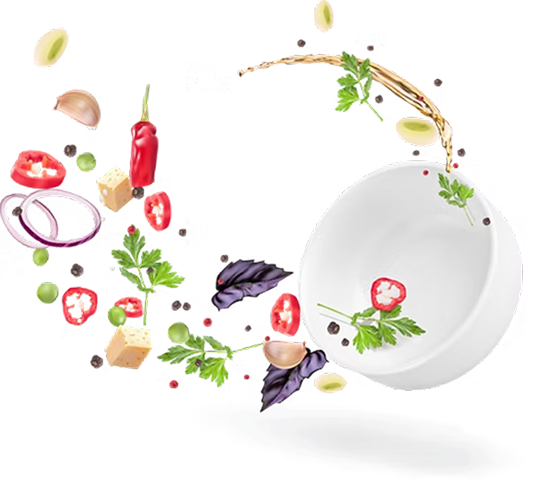
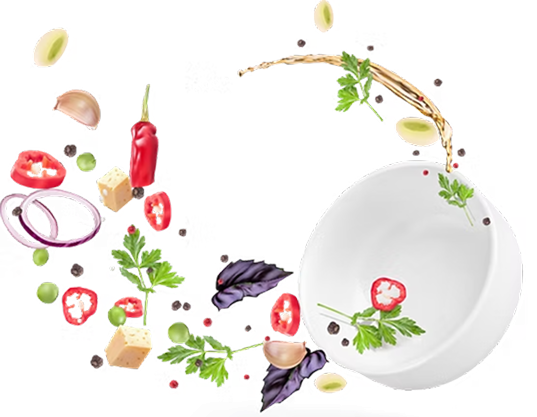
Add new components for footer, about us, FAQ section, and testimonials
- Created Footer component for site footer with company information and links.
- Added AboutUs section to describe the company's mission and offerings.
- Implemented FAQSection with collapsible questions and answers for user inquiries.
- Developed Testimonials section to showcase customer feedback and experiences.

diff --git a/src/pages/Home/Sections/FAQSection.jsx b/src/pages/Home/Sections/FAQSection.jsx
@@ -1,0 +1,141 @@
+// src/pages/Home/Sections/FAQSection.jsx
+import { useState } from "react";
+
+const faqItems = [
+  {
+    question: "Are these Meals Suitable for dieting or bodybuilding?",
+    answer: "",
+    isOpen: false,
+  },
+  {
+    question: "Are there any additives or preservatives?",
+    answer: "",
+    isOpen: false,
+  },
+  {
+    question: "Are the meals fresh or frozen?",
+    answer:
+      "The meals are prepared daily with fresh, high-quality products, packed in airtight containers to preserve the taste and nutritional value.",
+    isOpen: true,
+  },
+  {
+    question: "Are there any additives or preservatives?",
+    answer: "",
+    isOpen: false,
+  },
+];
+
+const FAQSection = () => {
+  const [activeIndex, setActiveIndex] = useState(2);
+
+  const toggleFAQ = (index) => {
+    setActiveIndex(activeIndex === index ? null : index);
+  };
+
+  return (
+    <section
+      className=" relative bg-cover bg-center bg-no-repeat"
+      style={{
+        backgroundImage: "url('/public/images/Frame 258 (2).png')",
+      }}
+    >
+      <div className="absolute inset-0 " />
+
+      <div className="container mx-auto px-4 md:px-6 lg:px-8 relative z-10">
+        <div className="grid lg:grid-cols-2 gap-12 lg:gap-16 items-center">
+          <div className="  rounded-2xl  p-6 md:p-8 lg:p-10 ">
+            <h2 className="text-xl md:text-2xl lg:text-3xl font-bold text-gray-900 mb-2">
+              Frequently asked questions?
+            </h2>
+
+            <div className="flex items-center gap-4 mb-8">
+              <span className="text-green-600 font-medium text-lg underline">
+                General
+              </span>
+              <span>Setting up question</span>
+            </div>
+
+            <div className="space-y-4">
+              {faqItems.map((item, index) => (
+                <div
+                  key={index}
+                  className={` pb-4 last:border-b-0 ${
+                    activeIndex === index ? " rounded-lg" : ""
+                  }`}
+                >
+                  <button
+                    onClick={() => toggleFAQ(index)}
+                    className="w-full text-left flex justify-between items-center"
+                  >
+                    <span
+                      className={`font-medium text-lg ${
+                        activeIndex === index
+                          ? "text-green-700"
+                          : "text-gray-800"
+                      }`}
+                    >
+                      {item.question}
+                    </span>
+                    <span className="text-2xl text-gray-900">
+                      {activeIndex === index ? "▲" : "▼"}
+                    </span>
+                  </button>
+
+                  {activeIndex === index && item.answer && (
+                    <p className="mt-3 text-gray-900 leading-relaxed">
+                      {item.answer}
+                    </p>
+                  )}
+                  <hr />
+                </div>
+              ))}
+            </div>
+
+            <div className="mt-10">
+              <div className="relative">
+                <input
+                  type="text"
+                  placeholder="Lookind for something ?"
+                  className="
+                    w-full pl-12 pr-4 py-2 rounded-full border border-gray-300 
+                    focus:outline-none focus:border-green-500 focus:ring-2 focus:ring-green-200
+                    text-gray-700 placeholder-gray-500 bg-white/80 backdrop-blur-sm
+                  "
+                />
+                <div className="absolute left-4 top-1/2 -translate-y-1/2 text-gray-500">
+                  <svg
+                    className="w-5 h-5"
+                    fill="none"
+                    stroke="currentColor"
+                    viewBox="0 0 24 24"
+                  >
+                    <path
+                      strokeLinecap="round"
+                      strokeLinejoin="round"
+                      strokeWidth={2}
+                      d="M21 21l-6-6m2-5a7 7 0 11-14 0 7 7 0 0114 0z"
+                    />
+                  </svg>
+                </div>
+              </div>
+            </div>
+          </div>
+
+          <div className=" flex justify-center lg:justify-end">
+            <div className=" w-full max-w-lg">
+              <img
+                src="/public/images/image 24.png"
+                alt="Woman eating healthy salad"
+                className="
+                  w-full h-full object-cover
+                "
+              />
+            </div>
+          </div>
+        </div>
+      </div>
+    </section>
+  );
+};
+
+export default FAQSection;

diff --git a/src/components/layout/Footer.jsx b/src/components/layout/Footer.jsx
@@ -1,0 +1,58 @@
+// src/components/layout/Footer.jsx
+const Footer = () => {
+  return (
+    <footer className="bg-black text-white py-12 md:py-16 px-20">
+      <div className="container mx-auto px-4 md:px-6 lg:px-8">
+        <div className="grid grid-cols-1 md:grid-cols-4 gap-10 md:gap-12">
+          <div>
+            <img src="/public/Revive.svg" alt="logo" />
+            <p
+              className="text-white
+             my-6"
+            >
+              The best food technology is now a reality. Special cooking fresh
+              and healthy food. Experienced chefs and professional couriers
+            </p>
+          </div>
+
+          <div>
+            <h4 className="text-lg font-semibold mb-4">LOCATION</h4>
+            <p
+              className="text-white
+             my-6"
+            >
+              Moonshine st.14/15 Light City 3450.Neverland
+            </p>
+          </div>
+          <div>
+            <h4 className="text-lg font-semibold mb-4">CONTACT</h4>
+            <p
+              className="text-white
+             my-6"
+            >
+              011240402055 <br />
+              055311152
+            </p>
+          </div>
+          <div>
+            <h4 className="text-lg font-semibold mb-4">DELIVARY AREA</h4>
+            <p
+              className="text-white
+             my-6"
+            >
+              Cairo Govarnimate <br />
+              Giza Govarnimate
+            </p>
+          </div>
+        </div>
+
+        <div className="border-t border-gray-800 mt-12 pt-8 text-center text-gray-500 text-sm">
+          © {new Date().getFullYear()} Balali.All right reserved . theme by
+          skimis
+        </div>
+      </div>
+    </footer>
+  );
+};
+
+export default Footer;

diff --git a/src/pages/Home/Sections/Testimonials.jsx b/src/pages/Home/Sections/Testimonials.jsx
@@ -1,0 +1,56 @@
+// src/pages/Home/Sections/Testimonials.jsx
+const Testimonials = () => {
+  return (
+    <section className="py-16 md:py-20 lg:py-24 ">
+      <div className="container mx-auto px-4 md:px-6 lg:px-8">
+        <div className="grid lg:grid-cols-2 gap-12 lg:gap-16 items-center">
+          <div className="text-center lg:text-left">
+            <h2 className="text-3xl md:text-4xl lg:text-5xl font-bold text-gray-900 mb-4">
+              What Our Customers Say About Us
+            </h2>
+
+            <p className="text-lg md:text-xl text-gray-600 max-w-xl mx-auto lg:mx-0">
+              The Most Popular Customer Say About Our Restaurant And Our Group.
+            </p>
+          </div>
+
+          <div className="relative max-w-lg lg:max-w-none mx-auto lg:mx-0">
+            <div className="bg-[#F2A4A4] rounded-3xl p-8 md:p-10 lg:p-12 shadow-xl border border-pink-100 relative">
+              <div className="absolute -top-8 left-6 md:left-10 text-gray-900 text-8xl md:text-9xl font-serif leading-none">
+                ”
+              </div>
+
+              <p className="text-lg md:text-xl text-gray-800 leading-relaxed mb-8 pl-4 md:pl-6">
+                Our company is in the delivery of healthy and tasty food the
+                city. Special cooking and delivery technologies allow you to buy
+                fresh and healthy food. Experienced chefs and will provide you
+                with a nutritious meal.
+              </p>
+
+              <div className="flex items-center gap-4">
+                <div className="w-14 h-14 md:w-16 md:h-16 rounded-full overflow-hidden border-4 border-white shadow-md shrink-0">
+                  <img
+                    src="/public/images/John Doe.png"
+                    alt="John Doe"
+                    className="w-full h-full object-cover"
+                  />
+                </div>
+
+                <div>
+                  <h4 className="font-bold text-gray-900 text-lg md:text-xl">
+                    John Doe
+                  </h4>
+                  <p className="text-gray-600 text-sm md:text-base">
+                    Food Enthusiast
+                  </p>
+                </div>
+              </div>
+            </div>
+          </div>
+        </div>
+      </div>
+    </section>
+  );
+};
+
+export default Testimonials;

diff --git a/src/pages/Home/Sections/AboutUs.jsx b/src/pages/Home/Sections/AboutUs.jsx
@@ -1,0 +1,54 @@
+// src/pages/Home/Sections/AboutUs.jsx
+const AboutUs = () => {
+  return (
+    <section className="mt-10 bg-white relative">
+      <div className="container mx-auto px-4 md:px-6 lg:px-8">
+        <h2 className="text-center text-4xl md:text-5xl lg:text-6xl font-bold text-(--color-green) mb-15 md:mb-30">
+          About Us
+        </h2>
+
+        <div className="grid lg:grid-cols-2 gap-10 lg:gap-16 items-center">
+          <div className="relative flex justify-center lg:justify-start order-1">
+            <div className="relative w-full max-w-md lg:max-w-lg">
+              <img
+                src="/public/images/fryingpan.png"
+                alt="Cooking pan with flying ingredients"
+                className="
+                  w-full h-auto 
+                  object-cover 
+                  transform hover:scale-105 transition-transform duration-500
+                  animate-float-medium
+                "
+              />
+            </div>
+          </div>
+
+          <div className="text-center lg:text-left order-2">
+            <p className="text-xl md:text-2xl font-semibold text-gray-800 ">
+              Delicious-Healthy Food
+            </p>
+
+            <img
+              src="/public/images/Design3Green.png"
+              alt="herbs"
+              className=" object-contain "
+            />
+
+            <p className="text-base md:text-lg text-gray-700 leading-relaxed max-w-xl mx-auto lg:mx-0">
+              Our company is engaged in the delivery of healthy and tasty food
+              around the city. Special cooking and delivery technologies allow
+              you to buy fresh and healthy food.
+            </p>
+
+            <p className="mt-6 text-base md:text-lg text-gray-700 leading-relaxed max-w-xl mx-auto lg:mx-0">
+              Experienced chefs and professional couriers will provide you with
+              a nutritious meal.
+            </p>
+          </div>
+        </div>
+      </div>
+    </section>
+  );
+};
+
+export default AboutUs;

diff --git a/src/pages/Home/Home.jsx b/src/pages/Home/Home.jsx
@@ -1,7 +1,10 @@
+import AboutUs from "./Sections/AboutUs";
+import FAQSection from "./Sections/FAQSection";
 import Hero from "./Sections/Hero";
 import PopularMenus from "./Sections/PopularMenus";
 import RegularFood from "./Sections/RegularFood";
 import SpecialOffer from "./Sections/SpecialOffer";
+import Testimonials from "./Sections/Testimonials";
 
 export default function Home() {
   return (
@@ -11,6 +14,7 @@ export default function Home() {
         bg-white 
         min-h-screen
         px-4 md:px-10 lg:px-20
+        overflow-hidden
       "
     >
       <div className="py-12 md:py-16 lg:py-20 space-y-16 md:space-y-20 lg:space-y-24">
@@ -18,6 +22,9 @@ export default function Home() {
         <PopularMenus />
         <RegularFood />
         <SpecialOffer />
+        <AboutUs />
+        <FAQSection />
+        <Testimonials />
       </div>
     </div>
   );

diff --git a/src/components/layout/Navbar.jsx b/src/components/layout/Navbar.jsx
@@ -12,10 +12,10 @@ function Navbar() {
       <div className="w-full flex flex-wrap p-3 gap-y-2 justify-around items-center">
         <h1 className="grow text-center">
           <Link to="/home">
-            <span className="branding-title text-3xl md:text-4xl text-orange">
+            <span className="branding-title text-3xl md:text-4xl text-(--color-orange)">
               Re
             </span>
-            <span className="branding-title text-3xl md:text-4xl text-green">
+            <span className="branding-title text-3xl md:text-4xl text-(--color-green)">
               vive
             </span>
           </Link>

diff --git a/src/pages/Home/Sections/SpecialOffer.jsx b/src/pages/Home/Sections/SpecialOffer.jsx
@@ -49,11 +49,11 @@ const SpecialOffer = () => {
           />
         </div>
 
-        <div className="absolute -bottom-45 -right-10 animate-float-fast">
+        <div className="absolute -bottom-20 -right-10 animate-float-fast">
           <img
             src="/public/images/bowl.png"
             alt="bowl"
-            className="w-full h-full object-contain "
+            className="w-full h-full object-contain z-50 "
           />
         </div>
       </div>

diff --git a/src/Layout/AppLayout.jsx b/src/Layout/AppLayout.jsx
@@ -1,3 +1,4 @@
+import Footer from "../components/layout/Footer";
 import Navbar from "../components/layout/Navbar";
 import { Outlet } from "react-router-dom";
 function AppLayout() {
@@ -6,6 +7,7 @@ function AppLayout() {
       <Navbar />
       {/* navbar will only be displayed on app pages */}
       <Outlet /> {/* This is where child routes will be rendered */}
+      <Footer /> {/* footer will only be displayed on app pages */}
     </div>
   );
 }